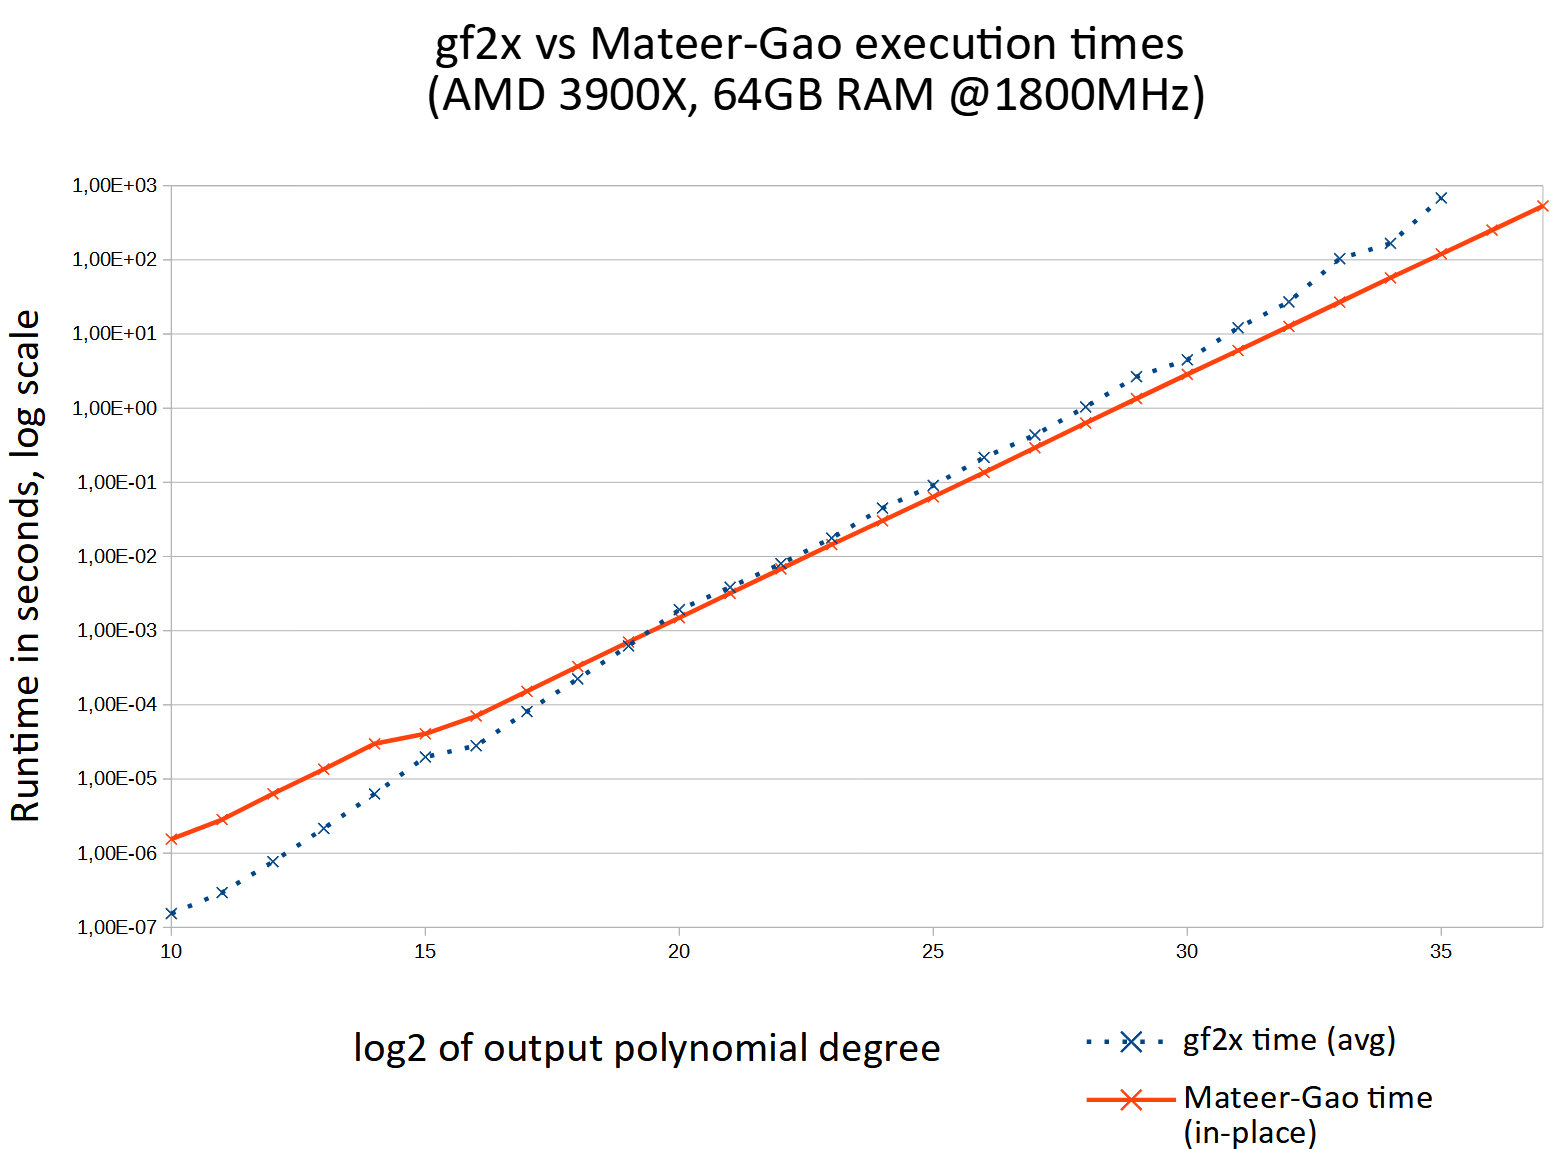
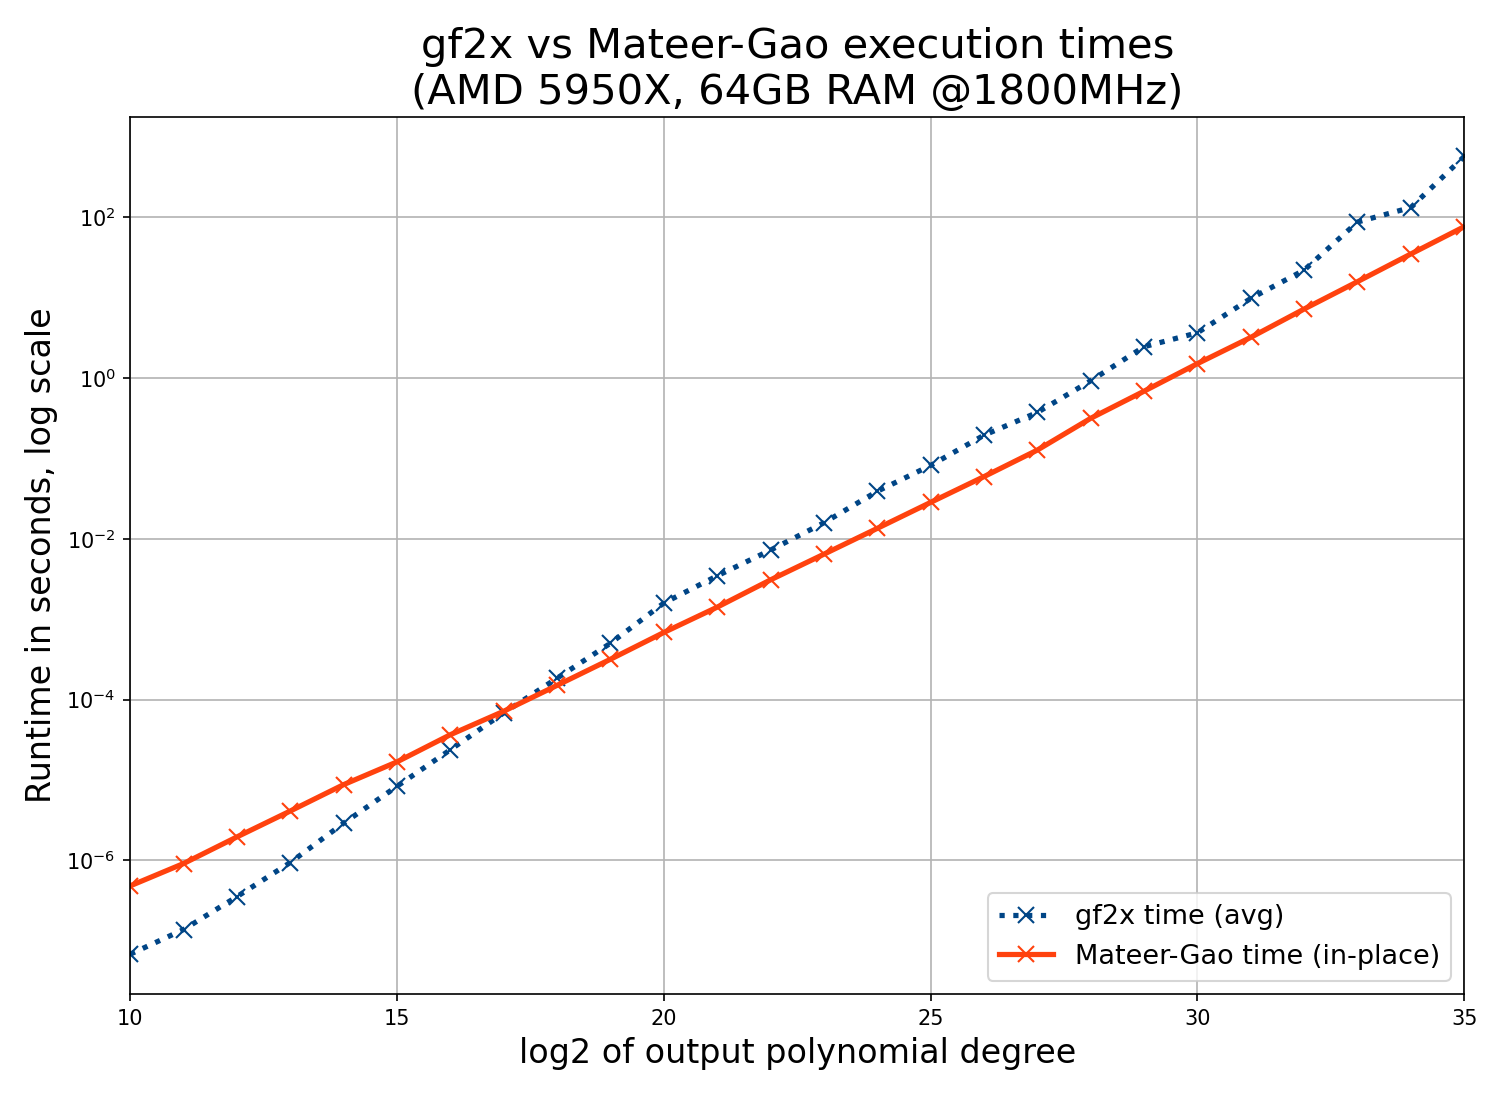
Update documentation and benchmark results (AMD 5950X)
- Add CODE_GUIDE.md, a map of the source tree.
- README: fix typos and build/CPU requirement details, describe the new
  vector code paths, and replace the 3900X timing table and graphs with
  new results on a Ryzen 9 5950X (sizes 10..35).
- Add 2026-10-results_in_place.csv with the raw numbers.
- Ignore the local gf2x/ checkout.

diff --git a/README.md b/README.md
@@ -1,9 +1,9 @@
 # Additive Discrete Fourier Transforms (DFTs)
-A C++17 implementation of several additive DFT algorithms over F2, and their application to fast binary polynomial multiplication.
+A C++20 implementation of several additive DFT algorithms over F2, and their application to fast binary polynomial multiplication.
 
-The implementation targets the x86_64 architecture with SSE2 and PCLMULQDQ instruction sets. Test programs showcase the different algorithms and test their correctness.
+The implementation targets the x86_64 architecture with the SSE2, SSE4.1, POPCNT and PCLMULQDQ instruction sets (the build uses `-march=native`; `product_test` additionally requires AVX2 and BMI1, and also VPCLMULQDQ if the build targets it, i.e. on CPUs such as Zen 3+ or Intel Ice Lake+). Test programs showcase the different algorithms and test their correctness. See [CODE_GUIDE.md](CODE_GUIDE.md) for a map of the source code.
 
-Algorithms implemented are: Von zur Gathen - Gehrard algorithm with Cantor bases (also called the Wang-Zhu-Cantor algorithm),  and the Mateer-Gao algorithm. Both of them are described in Todd Mateer Master Thesis (available at https://tigerprints.clemson.edu/all_dissertations/231/). Reverse algorithms are also implemented.
+Algorithms implemented are: Von zur Gathen - Gerhard algorithm with Cantor bases (also called the Wang-Zhu-Cantor algorithm), and the Mateer-Gao algorithm. Both of them are described in Todd Mateer's Master's Thesis (available at https://tigerprints.clemson.edu/all_dissertations/231/). Reverse algorithms are also implemented.
 
 Truncated versions of these algorithms are available to perform only a part of the DFT computation. Provided with an input polynomial degree < v = 2<sup>u</sup>, the v first coefficients of the DFT can be computed efficiently (if the underlying finite field has size w, the time to compute the truncated DFT is less than v/w times the full DFT time). Truncated reverse transforms have the same complexity and build a polynomial of degree < v that takes the provided values.
 
@@ -15,43 +15,41 @@ This project is about experimenting with these DFT algorithms. Reference impleme
 
 Mateer-Gao DFT (and crucially, its truncated implementation) is used to implement fast multiplication of binary polynomials (see https://cr.yp.to/f2mult.html for an outline of the method used). DFTs are used to evaluate the polynomials, then the values obtained for both polynomials are multiplied pointwise, and finally the product is built from the values with an inverse DFT). It is tested and benched against the fastest product implementation known to the author, from library `gf2x`, version 1.3 (https://gitlab.inria.fr/gf2x/gf2x).
 
-The DFT approach is tested by multiplying polynomials of degree 2<sup>u-1</sup> - 1 for values of u s.t. the computations fit into memory. It is slower than gf2x for small sizes (u < 20), and faster beyond that. It also uses less memory for large sizes. 
+The DFT approach is tested by multiplying polynomials of degree 2<sup>u-1</sup> - 1 for values of u s.t. the computations fit into memory. By default `product_test` runs u = 8...19, 25, 30 and 34, and compares results with gf2x only up to u = 25; the list of sizes and these limits are constants at the top of `product_test.cpp`. It is slower than gf2x for small sizes (u < 18 on an AMD 5950X), and faster beyond that. It also uses less memory for large sizes. 
 Both an in-place and a not-in-place product variant are provided. The in-place variant uses less memory and is slightly faster.
 
 ### Product computation time results
 
-Experiments on an AMD 3900X PC with 64GB of RAM are summarized below. Results are for the in-place product variant.
+Experiments on a PC with an AMD Ryzen 9 5950X CPU and 64GB of DDR4 RAM @1800MHz (3600 MT/s), with gf2x 1.3, are summarized below. Results are for the in-place product variant. The code was compiled with gcc using `-march=native` (which enables the 256-bit `vpclmulqdq` code path on this CPU). Each time is an average over repeated runs (repeated until 2 s have elapsed, at most 100 runs per size). These figures were obtained by running `product_test` with `gf2x_max_logsize = 35` and the size list set to u = 10...35. The raw numbers are in `2026-10-results_in_place.csv`. The 64GB of RAM do not allow the in-place product of size 2<sup>36</sup> to be computed.
 
 |Output log2 size|gf2x product time (sec.)|Mateer-Gao product time (sec.)|
 |:----:|:----:|:----:|
-|10| 1.533e-07| 1.54592e-06|
-|11| 2.94e-07| 2.84344e-06|
-|12| 7.6872e-07| 6.32339e-06|
-|13| 2.15473e-06| 1.3588e-05|
-|14| 6.30239e-06| 2.98442e-05|
-|15| 1.98352e-05| 4.07306e-05|
-|16| 2.80883e-05| 7.07753e-05|
-|17| 8.11709e-05| 0.000152324|
-|18| 0.000224136| 0.000328689|
-|19| 0.000624297| 0.000702538|
-|20| 0.00192079| 0.001496|
-|21| 0.00385513| 0.00318693|
-|22| 0.0080079| 0.00681072|
-|23| 0.0177371| 0.0144946|
-|24| 0.044928| 0.0303629|
-|25| 0.0908105| 0.0637364|
-|26| 0.216681| 0.135941|
-|27| 0.434778| 0.292499|
-|28| 1.03921| 0.630294|
-|29| 2.66044| 1.34558|
-|30| 4.48929| 2.85855|
-|31| 12.127| 5.99039|
-|32| 27.1416| 12.6645|
-|33| 103.736| 26.927|
-|34| 166.724| 57.2199|
-|35| 682.815| 120.14|
-|36| not enough memory| 251.969|
-|37| not enough memory| 532.96|
+|10| 6.8e-08| 4.817e-07|
+|11| 1.378e-07| 9.135e-07|
+|12| 3.536e-07| 1.957e-06|
+|13| 9.404e-07| 4.114e-06|
+|14| 2.906e-06| 8.765e-06|
+|15| 8.354e-06| 1.681e-05|
+|16| 2.381e-05| 3.662e-05|
+|17| 6.841e-05| 7.173e-05|
+|18| 0.000185| 0.0001506|
+|19| 0.0005032| 0.000318|
+|20| 0.001591| 0.0006849|
+|21| 0.00347| 0.001415|
+|22| 0.007261| 0.003094|
+|23| 0.01587| 0.006454|
+|24| 0.0391| 0.01352|
+|25| 0.08211| 0.02848|
+|26| 0.1951| 0.05957|
+|27| 0.3747| 0.1275|
+|28| 0.9282| 0.3168|
+|29| 2.464| 0.6889|
+|30| 3.672| 1.518|
+|31| 9.827| 3.221|
+|32| 22.11| 7.256|
+|33| 87.79| 15.9|
+|34| 133.1| 35.14|
+|35| 574.1| 76.79|
 
 ![Execution times](https://github.com/kunzjacq/Additive_DFTs/blob/master/times.png?raw=true)
 
@@ -69,19 +67,17 @@ As an example, when processing the largest example above, i.e. a product of two 
 
 ### Product CPU requirements
 
-The polynomial product code uses a fast implementation of multiplication in GF(2<sup>64</sup>), which is implemented multiple ways in the source, using AVX2, BMI1, POPCNT and PCLMULQDQ instructions. The availability of these instructions is checked by the test programs.
+The polynomial product code uses a fast implementation of multiplication in GF(2<sup>64</sup>), which is implemented multiple ways in the source, using PCLMULQDQ, POPCNT and SSE intrinsics. `product_test` checks at startup that the CPU reports AVX2, BMI1, POPCNT and PCLMULQDQ (and VPCLMULQDQ when the build targets it, see `MG_USE_YMM_CLMUL` in `include/mg_templates.h`), and exits otherwise; `fft_test` only checks for SSE2 and PCLMULQDQ.
 
 ## Cantor bases for large field sizes
 
-Cantor bases are available for field sizes above 2<sup>64</sup> thanks to the optional use of `Boost::multiprecision` which implements large integers. With this library, the cantor basis test program tests the construction in finite fields of size up to 2<sup>2048</sup>. In theory, truncated Wang-Zhu-Cantor DFT could work in such large fields, however it is not tested and does not work due to overflows in the handling of loop indexes, which are all of type `uint64_t`. There is probably little interest to use these field sizes for truncated DFTs; full DFTs are of course totally unrealistic in these cases.
+Cantor bases are available for field sizes above 2<sup>64</sup> thanks to the optional use of `Boost::multiprecision` which implements large integers (enabled with the CMake option `-D USE_BOOST=ON`, off by default). With this library, the cantor basis test program tests the construction in finite fields of size up to 2<sup>2048</sup>. In theory, truncated Wang-Zhu-Cantor DFT could work in such large fields, however it is not tested and does not work due to overflows in the handling of loop indexes, which are all of type `uint64_t`. There is probably little interest to use these field sizes for truncated DFTs; full DFTs are of course totally unrealistic in these cases.
 
 ## Targets
-There are three targets which can be built for 64-bit Linux or Windows:
+There are three targets which can be built for 64-bit Linux or Windows (with MSVC, only `product_test` is built):
   * `product_test` which benches Mateer-Gao polynomial products (using the finite field GF(2<sup>64</sup>) for DFTs) and checks them against gf2x;
-  * `fft_test` which enables to test and benchmark the DFT algorithms discussed above. The binary field and the size of a buffer used in tests determine which tests can be run; these parameters can be adjusted at compile-time at the top of `fft_test.cpp`. If `Boost::multiprecision` (https://www.boost.org/doc/libs/1_73_0/libs/multiprecision/doc/html/index.html) is detected, Cantor bases and DFT objects can be instantiated for all sizes for which large integers are available from this library. DFT algorithms are not tested (see above) and currently most likely do not work correctly in these large fields. 
+  * `fft_test` which enables to test and benchmark the DFT algorithms discussed above. The binary field and the size of a buffer used in tests determine which tests can be run; these parameters can be adjusted at compile-time at the top of `fft_test.cpp`. The word type must be `uint32_t` or `uint64_t`. If `USE_BOOST` is enabled and `Boost::multiprecision` (https://www.boost.org/doc/libs/1_73_0/libs/multiprecision/doc/html/index.html) is found, Cantor bases and DFT objects can be instantiated for all sizes for which large integers are available from this library. DFT algorithms are not tested (see above) and currently most likely do not work correctly in these large fields. 
   * `cantor_basis_test` which performs various consistency checks on cantor basis construction.
-
-For target `fft_test`,
 
 ## Build instructions
 Under Linux, gcc or clang are able to build all targets. Under windows, MinGW gcc (for instance from MSYS2) can be used, whereas MSVC will only build a limited version of `product_test` that does not use `gf2x`. 
@@ -93,9 +89,4 @@ The build process uses Cmake. For instance, an optimized build with gcc using a 
 
 Multi-configuration generators need different options; see https://stackoverflow.com/questions/7724569/debug-vs-release-in-cmake/64719718#64719718. 
 
-Target `product_test` requires a compiled version of gf2x for the target platform to be placed in a subdirectory of the source dir named `lib/`. Alternatively, if an environment variable `CUSTOM_LIBS` is defined and contains a valid directory path, it will be used to look for gf2x.
-
-
-
-
-
+Target `product_test` requires a compiled version of gf2x for the target platform to be placed in a subdirectory of the source dir named `lib/`. Alternatively, if an environment variable `CUSTOM_LIBS` is defined, the directory `$CUSTOM_LIBS/lib` will also be searched for gf2x. Link-time optimization is on by default (disable with `-D LTO=OFF`).

diff --git a/CODE_GUIDE.md b/CODE_GUIDE.md
@@ -1,0 +1,162 @@
+# Code guide
+
+A map of the source tree, written from a read-through of the code. For the mathematics, see
+[algo_fft_en.md](algo_fft_en.md). For usage, benchmarks and build instructions, see
+[README.md](README.md).
+
+## Build targets
+
+Defined in `CMakeLists.txt` (C++20, C99, little-endian only; `-march=native` and LTO are on by
+default).
+
+| Target | Sources | Built with |
+|---|---|---|
+| `product_test` | `product_test.cpp`, `utils.cpp`, `libfft/mg.cpp` | all compilers; links `gf2x` for GCC/Clang only |
+| `fft_test` | `fft_test.cpp`, `utils.cpp`, `libfft/additive_fft.cpp`, `libfft/mg.cpp`, `libcantor/*.cpp` | GCC/Clang only |
+| `cantor_basis_test` | `cantor_test.cpp`, `libcantor/*.cpp` | GCC/Clang only |
+
+CMake options: `LTO` (default ON) and `USE_BOOST` (default OFF). With `USE_BOOST=ON`, CMake runs
+`find_package(Boost 1.65)`, and if Boost is found, `defs.h` (generated from `defs.h.in`) defines
+`Boost_FOUND`. That enables the 128 to 2048-bit word types in `include/cantor.h`. Without Boost,
+`uint128_t` is `__uint128_t`.
+
+`gf2x` is searched for in `<source>/lib` and in `$CUSTOM_LIBS/lib`. The vendored `include/gf2x.h`
+is only the header.
+
+Files not referenced by any target: `libfft/mateer_gao.cpp` (non-recursive tree-walk helpers
+`DFTS` and `DFTS_incomplete_tree`), `libfft/mg_t.cpp` (includes a `mg_t.h` that does not exist,
+so it cannot compile as is), `libfft/finite_field.c`, `libfft/utils.c`, and `include/finite_field.h`.
+`include/mg_templates.h`, `include/mg.h`, `include/helpers.hpp` and the other headers are used.
+
+## Concepts
+
+- **Field and word type.** A field GF(2^n) is identified by its element type `word`
+  (`uint8_t` to `uint64_t`, plus larger Boost types). `c_b_t<word>` (in `cantor.h`) holds the
+  per-type constants: `n`, `word_logsize` (log2 n), and the helper types `half_type` and `log_type`.
+- **Three bases.**
+  - *beta*: the Cantor basis. Element i of the field is the sum of beta_k over the set bits k
+    of i, so offsets and DFT points are plain integers.
+  - *gamma*: a tower basis built from successive degree-2 extensions. This is where fast field
+    multiplication lives.
+  - *mult*: the polynomial basis 1, a, a^2, ... modulo a primitive polynomial. It is used for
+    the PCLMULQDQ-based multiplication, `multiply_mult_repr`.
+  - The `beta_to_gamma`, `beta_to_mult` and related conversions go between them.
+- **Interleaving.** Most DFT routines take a `logstride` and process 2^logstride interleaved
+  polynomials at once. This keeps the recursion shallow and each level's data contiguous.
+- **Truncated DFTs.** Given a polynomial with at most 2^logsize coefficients, these compute only
+  the first 2^logsize values (at an optional block offset). The Mateer-Gao recursion is templated
+  on `s`, where 2^(2^s) bounds the block size.
+
+## Directory layout
+
+### `include/` and `libcantor/`: field construction
+
+- `cantor.h` defines `cantor_basis_bare<word>` and `cantor_basis_full<word>`. `cantor_basis<word>`
+  selects one of them: `full` for `uint8_t` and `uint16_t`, `bare` for everything else.
+  - `full` builds the complete gamma multiplication table and offers reference products.
+  - `bare` stores only gamma_i^2 and the beta_i, for large fields.
+  - Both provide `multiply`, `square`, `inverse`, `trace` and the basis conversions.
+  - The `*_mult_repr` methods (PCLMUL products in the mult basis) exist only in `bare`. The
+    constructor builds everything, including the discrete-log tables.
+- `libcantor/cantor_basis_bare.cpp` and `cantor_basis_full.cpp` implement these and contain the
+  explicit template instantiations. `libcantor/helpers.cpp` and `include/helpers.hpp` hold bit
+  utilities and linear-algebra helpers, with `_cppinteger` variants for Boost types.
+- `cantor_test.cpp` checks the construction against hard-coded targets (a known 2048-bit value
+  when Boost is available) and compares against reference products.
+
+### `include/` and `libfft/`: the DFTs
+
+- `additive_fft.h` and `libfft/additive_fft.cpp` define the class `additive_fft<word>`, the
+  Von zur Gathen-Gerhard family:
+  - `fft_direct` and `fft_direct_exp` evaluate naively and serve as references.
+  - `additive_fft_ref_in_place` and `additive_fft_fast_in_place` are the full DFTs. The fast
+    variant needs a buffer of 2^(m-2) words.
+  - `additive_fft_rev_ref_in_place` and `additive_fft_rev_fast_in_place` are the inverses.
+  - `vzgg_mateer_gao_combination` is for degree d much larger than the number of outputs 2^m. It
+    first reduces by the m-th reductor sigma_m (which has few terms), then runs the truncated
+    Mateer-Gao DFT.
+  - `fold_polynomial` pre-reduces by X^(2^n - 1) - 1 when the degree reaches the multiplicative
+    order.
+  - `max_dft_size` is capped at min(40, n).
+  - Euclidean division by the sparse sigma_i polynomials is in `gf2_extension_polynomials.h`
+    (reference and optimized versions). `interleave.h` has in-place and buffered interleaving
+    used by the fast variants.
+- `decompose_taylor.h` holds the Taylor decomposition in base (x^tau - x), in recursive and
+  iterative forms with `_reverse` counterparts. The `_alt` iterative variants are the ones the
+  Mateer-Gao code calls.
+- `mateer_gao.h` is the generic (any `word`) Mateer-Gao implementation. It is header-only
+  templates.
+  - `fft_aux_ref*` are the recursive kernels (full, truncated, offset, reverse, and `_mult`
+    variants that work in the mult representation).
+  - `fft_mateer`, `fft_mateer_truncated`, `fft_mateer_truncated_reverse` and the `_mult`
+    versions are the entry points.
+  - `fft_mateer_truncated_mult_smalldegree` is the small-degree-input optimization: it does one
+    Taylor step, replicates the result and runs one smaller DFT per block.
+  - `fft_mateer<word, s>` requires n <= 64 and s <= 5. The truncated entry points allow s <= 6.
+- `polynomial_product.h` is a generic (any `word`) binary-polynomial product on top of
+  `mateer_gao.h`. It is not used by any build target. The specialized one is below.
+
+### The fast product (`mg.h`, `libfft/mg.cpp`, `mg_templates.h`)
+
+This is what `product_test` benchmarks. It is specialized for GF(2^64) and uses PCLMULQDQ.
+
+- The field is GF(2^64) with minimal polynomial x^64 + x^4 + x^3 + x + 1 (`product`,
+  `product_batch`: four products per iteration).
+- `init_beta_table()` derives the beta basis in the mult representation from a start value and
+  the relation beta_i = beta_{i+1}^2 + beta_{i+1}, retrying until beta_0 = 1. It is called lazily
+  by the product functions.
+- Binary polynomials are cut into 32-bit chunks, each placed in a 64-bit word (`expand`). After
+  the pointwise product and the inverse DFT, `contract` xors the overlapping halves back
+  together. Both are little-endian only.
+- `mg_core<s, logstride>` is the truncated forward DFT kernel. `mg_reverse_core` is its inverse.
+  `mg_smalldegree<s>` is the forward DFT for inputs shorter than the output.
+  `mg_smalldegree_with_buf<s>` does the same for the second operand and multiplies the result
+  pointwise into the first operand's buffer.
+- `mg_binary_polynomial_multiply` (out of place) and `mg_binary_polynomial_multiply_in_place`
+  (result in `p1`, which must hold twice the result size rounded up to a power of 2) are the
+  public entry points. `naive_product` is a PCLMUL schoolbook reference.
+- Compile-time switch: `GRAY_CODE` (off) selects a Gray-code iteration order over the rows.
+
+### Tests and utilities
+
+- `product_test.cpp` multiplies random polynomials of degree 2^(lsz-1) - 1. The default list is
+  `{8..19, 25, 30, 34}`. gf2x comparison is limited to lsz <= 25 (`gf2x_max_logsize`). Settings:
+  `test_in_place_variant`, `test_naive_product`, `benchmark`, `min_time` (2 s) and `max_runs`
+  (100). Exit code 0 means all comparisons passed. It requires the CPU flags AVX2, PCLMULQDQ,
+  POPCNT and BMI1, and exits with code 2 otherwise.
+  - A `FIXME` in `main` notes that the case lsz = 7 (two 64-bit polynomials) differs from gf2x.
+- `fft_test.cpp` runs six tests, switchable through `run_tests[]`: VzGG DFT against direct
+  evaluation, its reverse, truncated Mateer-Gao (and the VzGG/MG combination), the reverse
+  truncated Mateer-Gao, Taylor decomposition, and DFT inversion. Top-of-file knobs: `word`
+  (`uint32_t` or `uint64_t` only, because the mult-representation functions exist for those),
+  `allocated_buf_size` (1 GB), `check_correctness`, `benchmark`, `full_mg_tests`,
+  `full_dft_test_size_limit` and the `log_sz` list `{20, 24}`. It only checks for SSE2 and
+  PCLMULQDQ.
+- `utils.cpp` and `include/utils.h` provide CPUID feature detection (`cpu_features`) and
+  printing and comparison helpers. `include/timer.h` is a small timer. `include/base.h` defines
+  `restr` and `UNUSED`.
+
+### Data files
+
+`2020-10-results_not_in_place.csv`, `2021-05-results_in_place.csv` and `runtimes.ods` hold the
+raw benchmark numbers. The README table matches the in-place CSV (a `0` in the gf2x column means
+out of memory). `times.png` and `speed_ratio.png` are the plots the README embeds.
+
+## Things to know
+
+- **Memory use of the product.** A product whose result has 2^L bits uses a DFT buffer of 2^L / 4
+  bytes, which is twice the result size. In-place, the second operand's expansion buffer is
+  as large as the result. This matches the README's numbers.
+- **Vector code paths.** When the build defines `__VPCLMULQDQ__` and `__AVX2__` (true with
+  `-march=native` on Zen 3+ / Ice Lake+), `mg_templates.h` defines `MG_USE_YMM_CLMUL`, and
+  `eval_degree1` and `product_batch` use 256-bit `_mm256_clmulepi64_epi128` (two products per
+  instruction); `product_test` then also requires the CPU flag VPCLMULQDQ. Otherwise a 128-bit
+  path is used. `eval_degree1_ref` is the original scalar-reduction version (select it with
+  `MG_USE_REF_EVAL_DEGREE1`).
+- **Reduction by table.** In the products, after `a*b` and `hi*minpoly`, the remaining 4-bit
+  spill is reduced with a 16-entry `pshufb` table (`mg_lut128`) instead of a third clmul.
+- **Row kernels.** `mg_row4_forward` / `mg_row4_reverse` (`libfft/mg.cpp`) handle the lowest
+  recursion level (`s = 1`, `logstride = 0`, rows of 4 words) entirely in two registers.
+  `-DMG_ROW4=0` disables them.
+- **Large fields.** Truncated DFT loop indexes are `uint64_t`, so word types beyond 64 bits work
+  for Cantor-basis construction but not reliably for DFTs.
